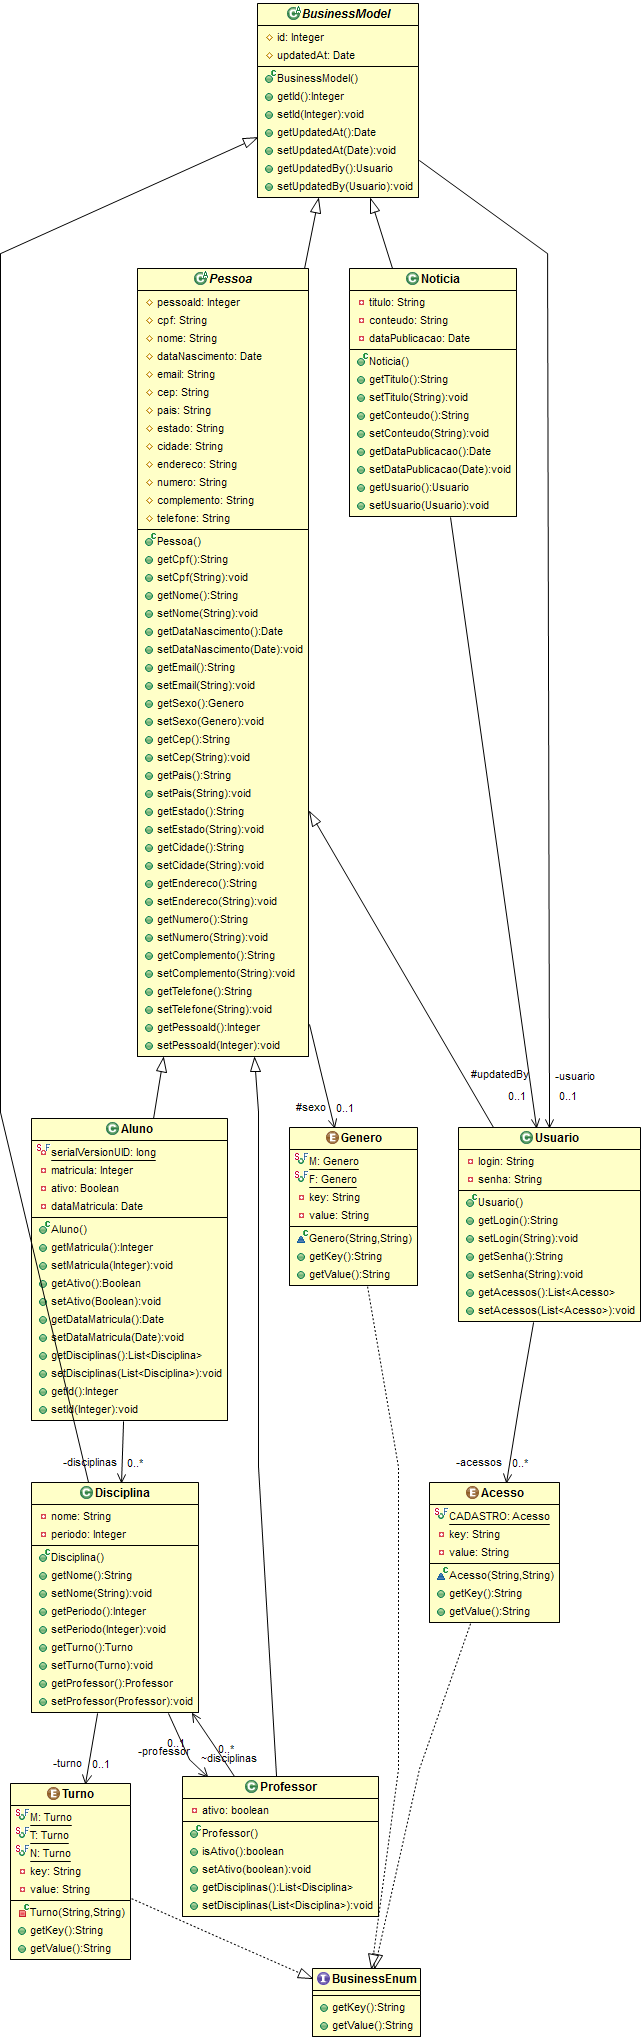
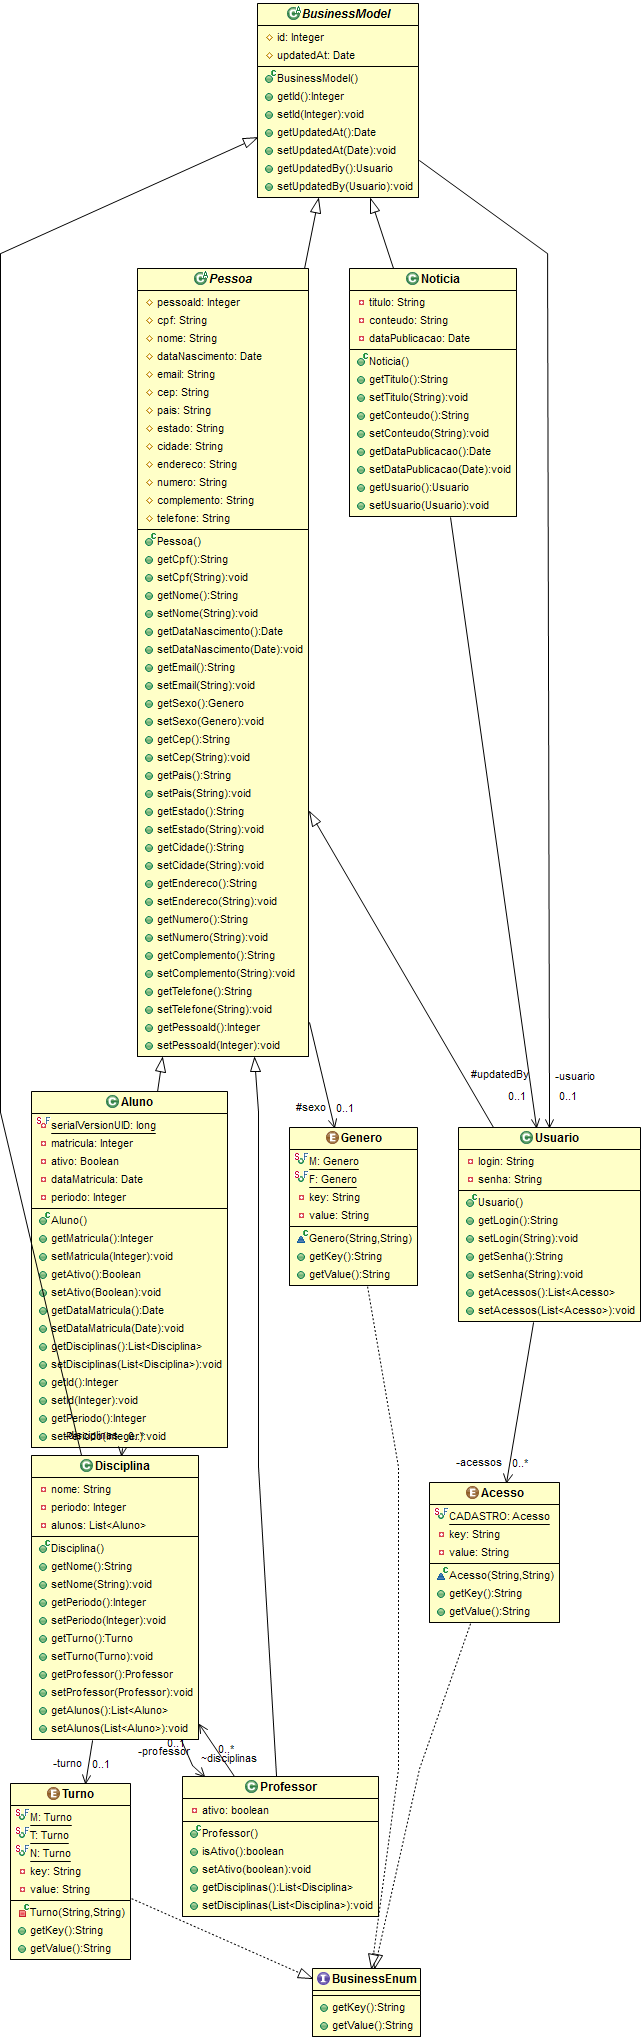
Disciplina precisa de lista de alunos

Changed region(s): [[0.0311, 0.525, 0.3727, 0.8647]]

diff --git a/tcc-ufpr-model/src/main/java/br/ufpr/model/Disciplina.java b/tcc-ufpr-model/src/main/java/br/ufpr/model/Disciplina.java
@@ -1,5 +1,7 @@
 package br.ufpr.model;
 
+import java.util.List;
+
 import javax.xml.bind.annotation.XmlRootElement;
 
 @XmlRootElement
@@ -9,6 +11,7 @@ public class Disciplina extends BusinessModel {
 	private Integer periodo;
 	private Turno turno;
 	private Professor professor;
+	private List<Aluno> alunos;
 	
 	public String getNome() {
 		return nome;
@@ -33,6 +36,12 @@ public class Disciplina extends BusinessModel {
 	}
 	public void setProfessor(Professor professor) {
 		this.professor = professor;
+	}
+	public List<Aluno> getAlunos() {
+		return alunos;
+	}
+	public void setAlunos(List<Aluno> alunos) {
+		this.alunos = alunos;
 	}
 	
 }
